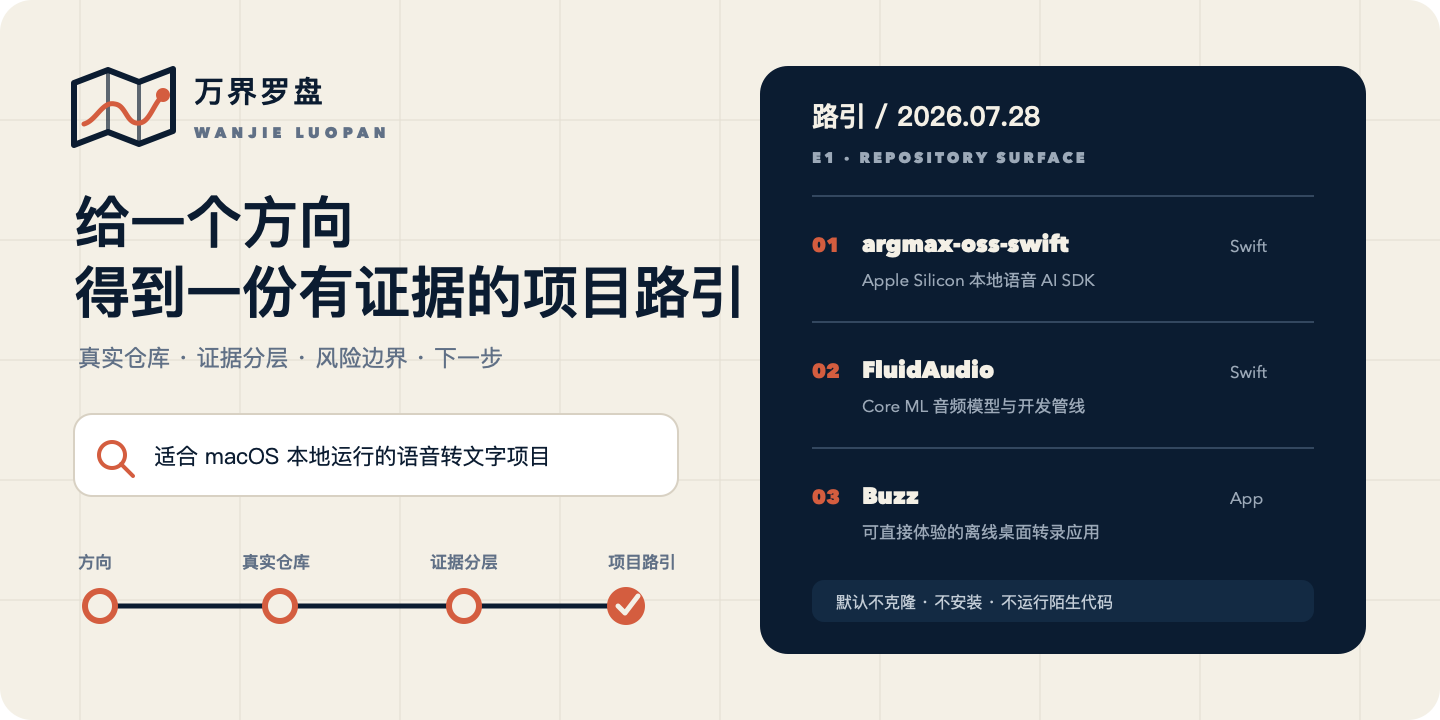
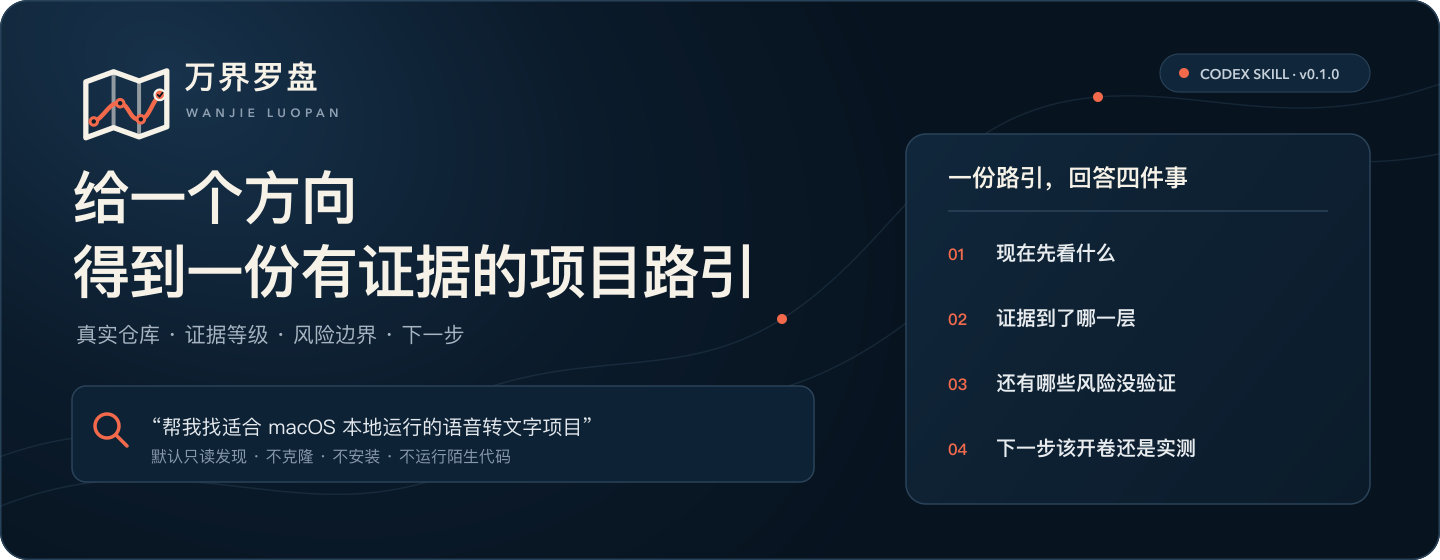
Fix README first-fold composition

diff --git a/README.md b/README.md
@@ -1,24 +1,24 @@
 <p align="center">
-  <img src="assets/logo-lockup.svg" alt="万界罗盘" width="520">
-</p>
-
-<p align="center"><strong>给一个方向，得到一份有证据的开源项目路引</strong></p>
-
-<p align="center">
-  一个面向 Codex 的开源项目发现与研究 Skill。核对真实仓库、源码、维护与许可证，告诉你哪些值得先看，以及证据到哪一层。
+  <img src="assets/hero.png" alt="万界罗盘：给一个方向，得到一份包含真实仓库、证据等级、风险边界和下一步的开源项目路引" width="100%">
 </p>
 
 <p align="center">
-  <sub>当前可用：路引 · 基础星图 · 开卷 · 按需最小运行验证</sub>
+  <a href="#60-秒开始"><strong>开始使用</strong></a>
+  ·
+  <a href="examples/first-success.md">真实样例</a>
+  ·
+  <a href="#证据不是装饰">证据模型</a>
+  ·
+  <a href="https://github.com/wuxie888/wanjie-luopan/releases/tag/v0.1.0">v0.1.0</a>
 </p>
 
 <p align="center">
-  <img src="assets/hero.png" alt="万界罗盘把一个自然语言方向转成经过真实仓库核验、证据分层和风险标注的项目路引" width="100%">
+  <sub>一个面向 Codex 的开源项目发现与研究 Skill</sub>
 </p>
 
 ## 60 秒开始
 
-### 1. 安装
+### 安装
 
 ```bash
 git clone https://github.com/wuxie888/wanjie-luopan.git
@@ -28,24 +28,14 @@ rsync -a --delete wanjie-luopan/wanjie-luopan/ "$HOME/.codex/skills/wanjie-luopa
 
 安装后开启一个新的 Codex 任务，让本地 Skill 列表重新加载。
 
-### 2. 给出一个真实方向
+### 第一次调用
 
 ```text
 使用 $wanjie-luopan 帮我寻找适合 macOS 本地运行、用于研究语音转文字的开源项目。
 只做快速发现，不安装运行。
 ```
 
-### 3. 得到可以继续行动的路引
-
-万界罗盘默认返回 3–8 个分层候选，每个候选包含：
-
-- 准确的原始仓库链接和真实项目形态
-- 为什么值得继续看，以及最值得先看的入口
-- E0–E3 证据等级和本次核验边界
-- 许可证、依赖、维护和适用性风险
-- 一个自然的下一步，而不是自动扩大任务
-
-查看一份基于 GitHub 当前数据整理的 [真实首次成功样例](examples/first-success.md)。
+你会得到 3–8 个分层候选，以及准确链接、推荐理由、E0–E3 证据等级、主要风险和自然下一步。查看 [真实首次成功样例](examples/first-success.md)。
 
 ## 它解决什么
 

diff --git a/assets/README.md b/assets/README.md
@@ -5,9 +5,9 @@
 ## 核心资产
 
 - `logo-mark.svg`：透明背景主标志
-- `logo-lockup.svg`：README 品牌组合
+- `logo-lockup.svg`：横向品牌组合
 - `icon.svg` / `icon.png`：Codex Skill 方形图标
-- `hero.svg` / `hero.png`：README 静态 Hero
+- `hero.svg` / `hero.png`：README 静态 Hero，1440×560
 - `social-preview.svg` / `social-preview.png`：GitHub Social Preview
 
 ## 视觉规则
@@ -20,6 +20,7 @@
 | Slate | `#607086` | 次要文字 |
 | Rule | `#D8D1C3` | 网格与分隔线 |
 
+- Hero 使用 `#07131F` 至 `#17324B` 的深色表面层级，仍只用朱橙标记路线和证据节点
 - 不使用星尘、占星圆环、金色纹理或假 Dashboard
 - 路线和节点表达“来源 → 核验 → 证据 → 路引”
 - 小尺寸图标只保留折叠舆图和一条路线

diff --git a/CHANGELOG.md b/CHANGELOG.md
@@ -4,6 +4,11 @@
 
 ## Unreleased
 
+### Changed
+
+- README 首屏改为单一静态封面，移除重复 Logo 区和候选 Dashboard 式画面
+- Hero 从 1440×720 收敛为 1440×560，在 GitHub 正文宽度中优先保证品牌、价值和真实边界可读
+
 ## 0.1.0 - 2026-07-29
 
 ### Added
